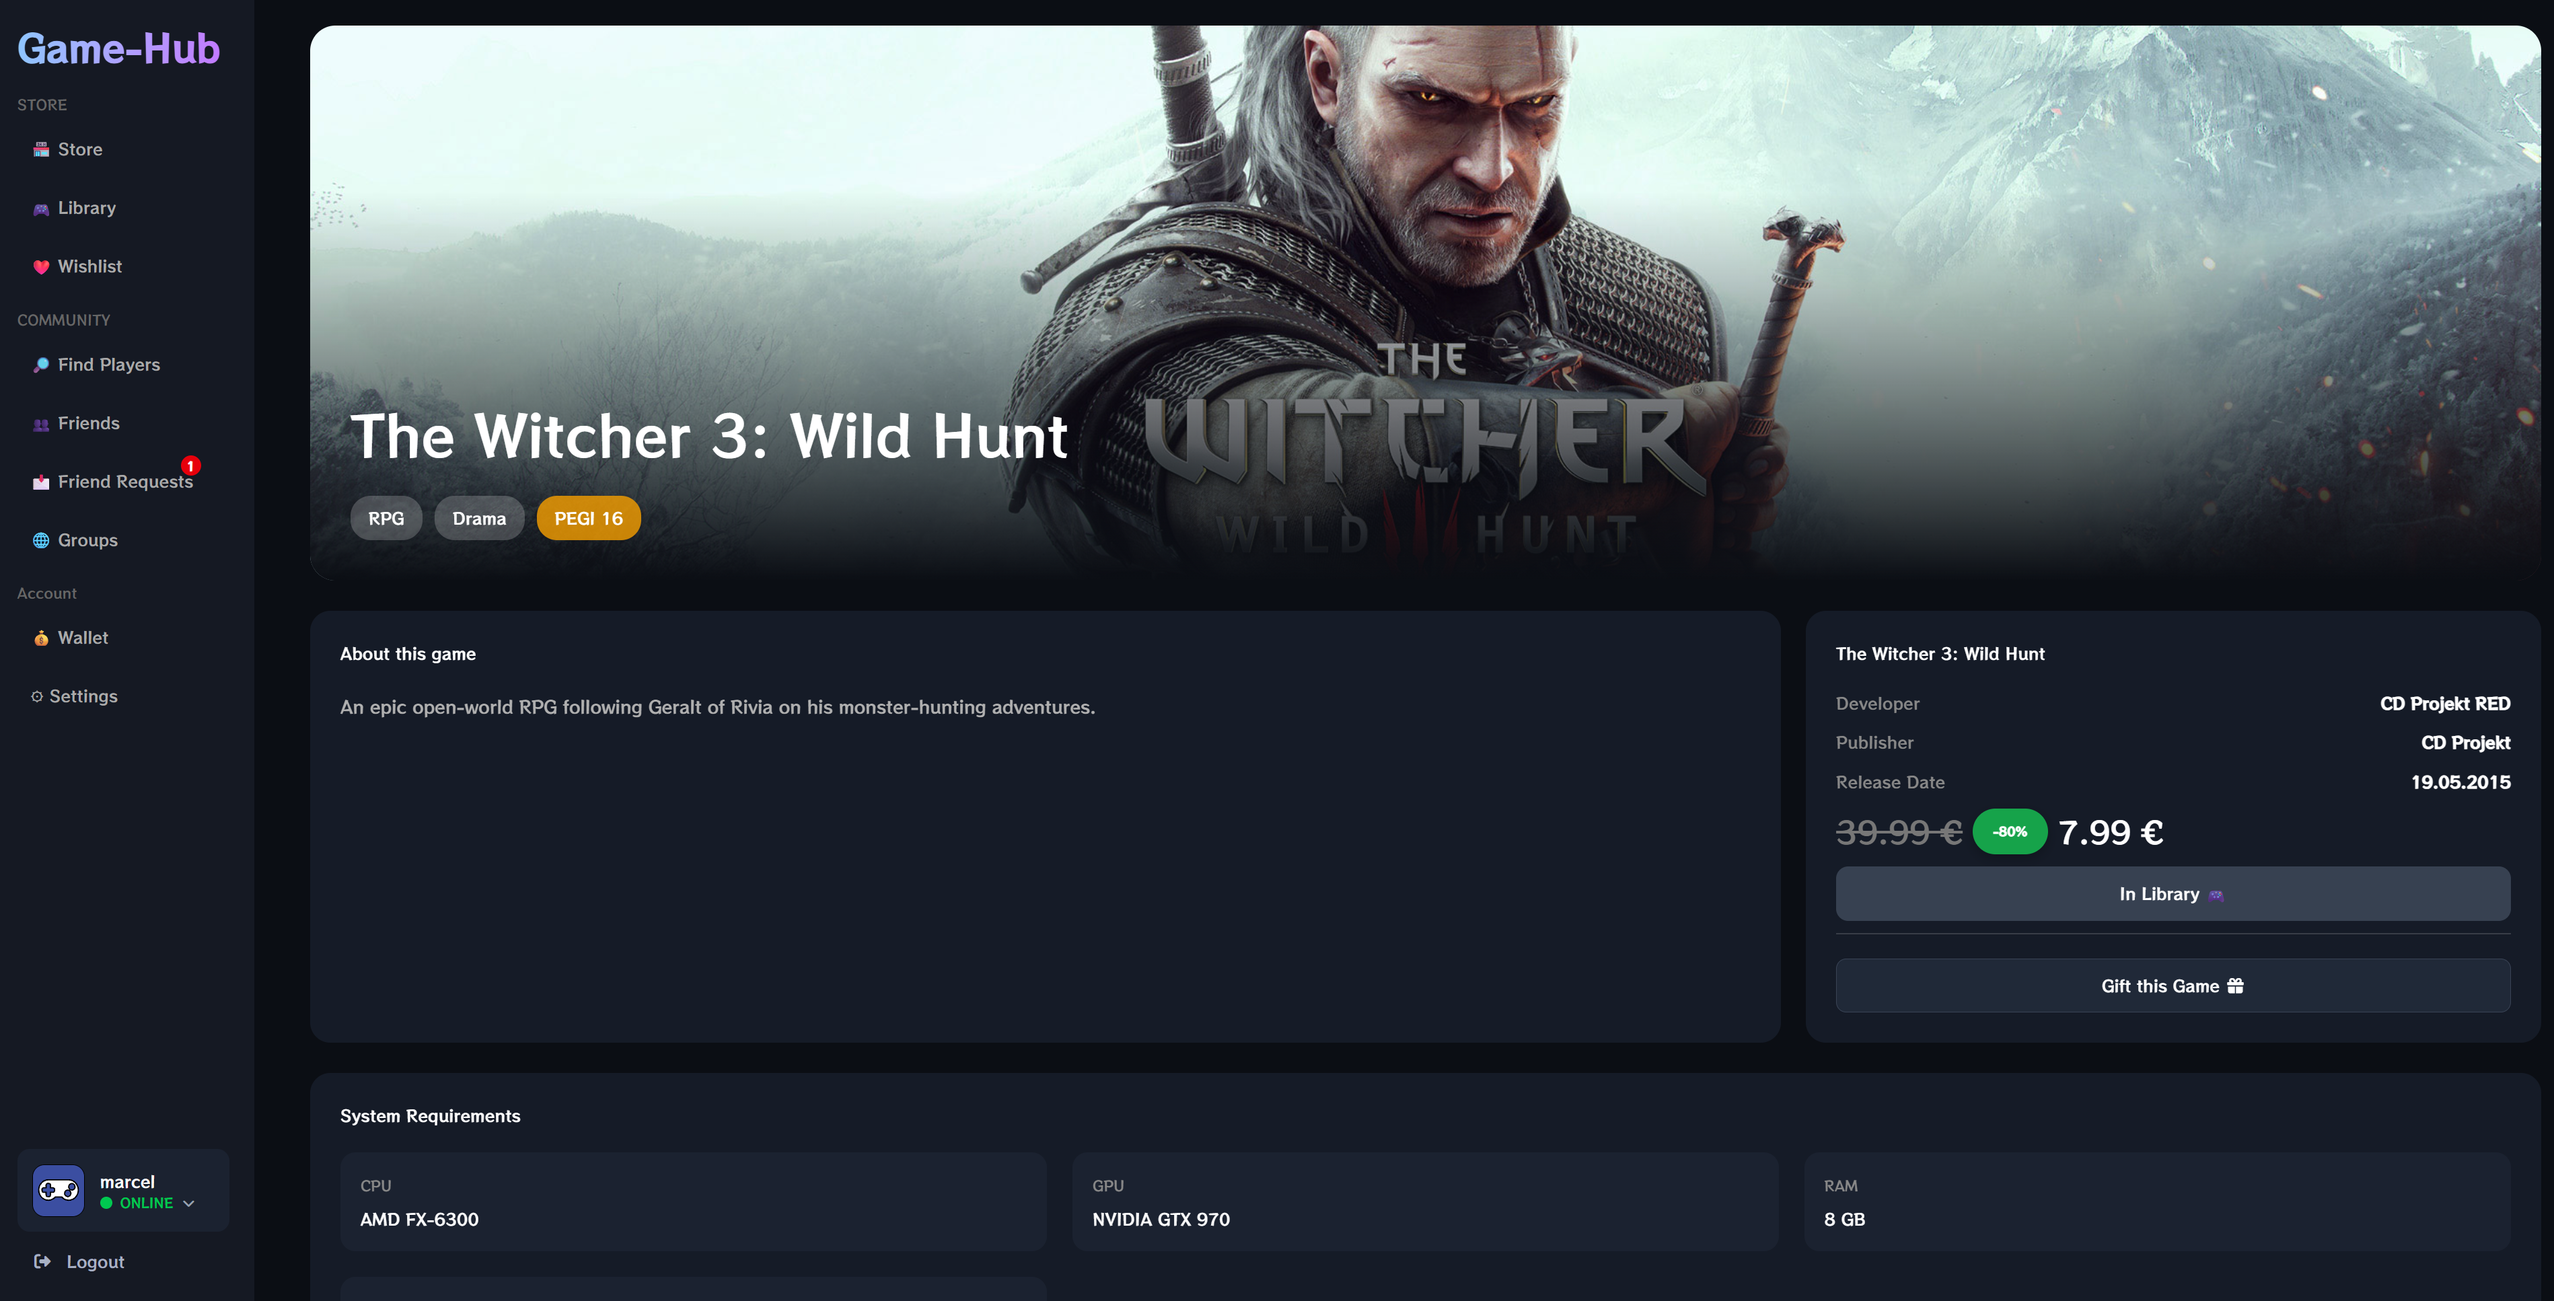
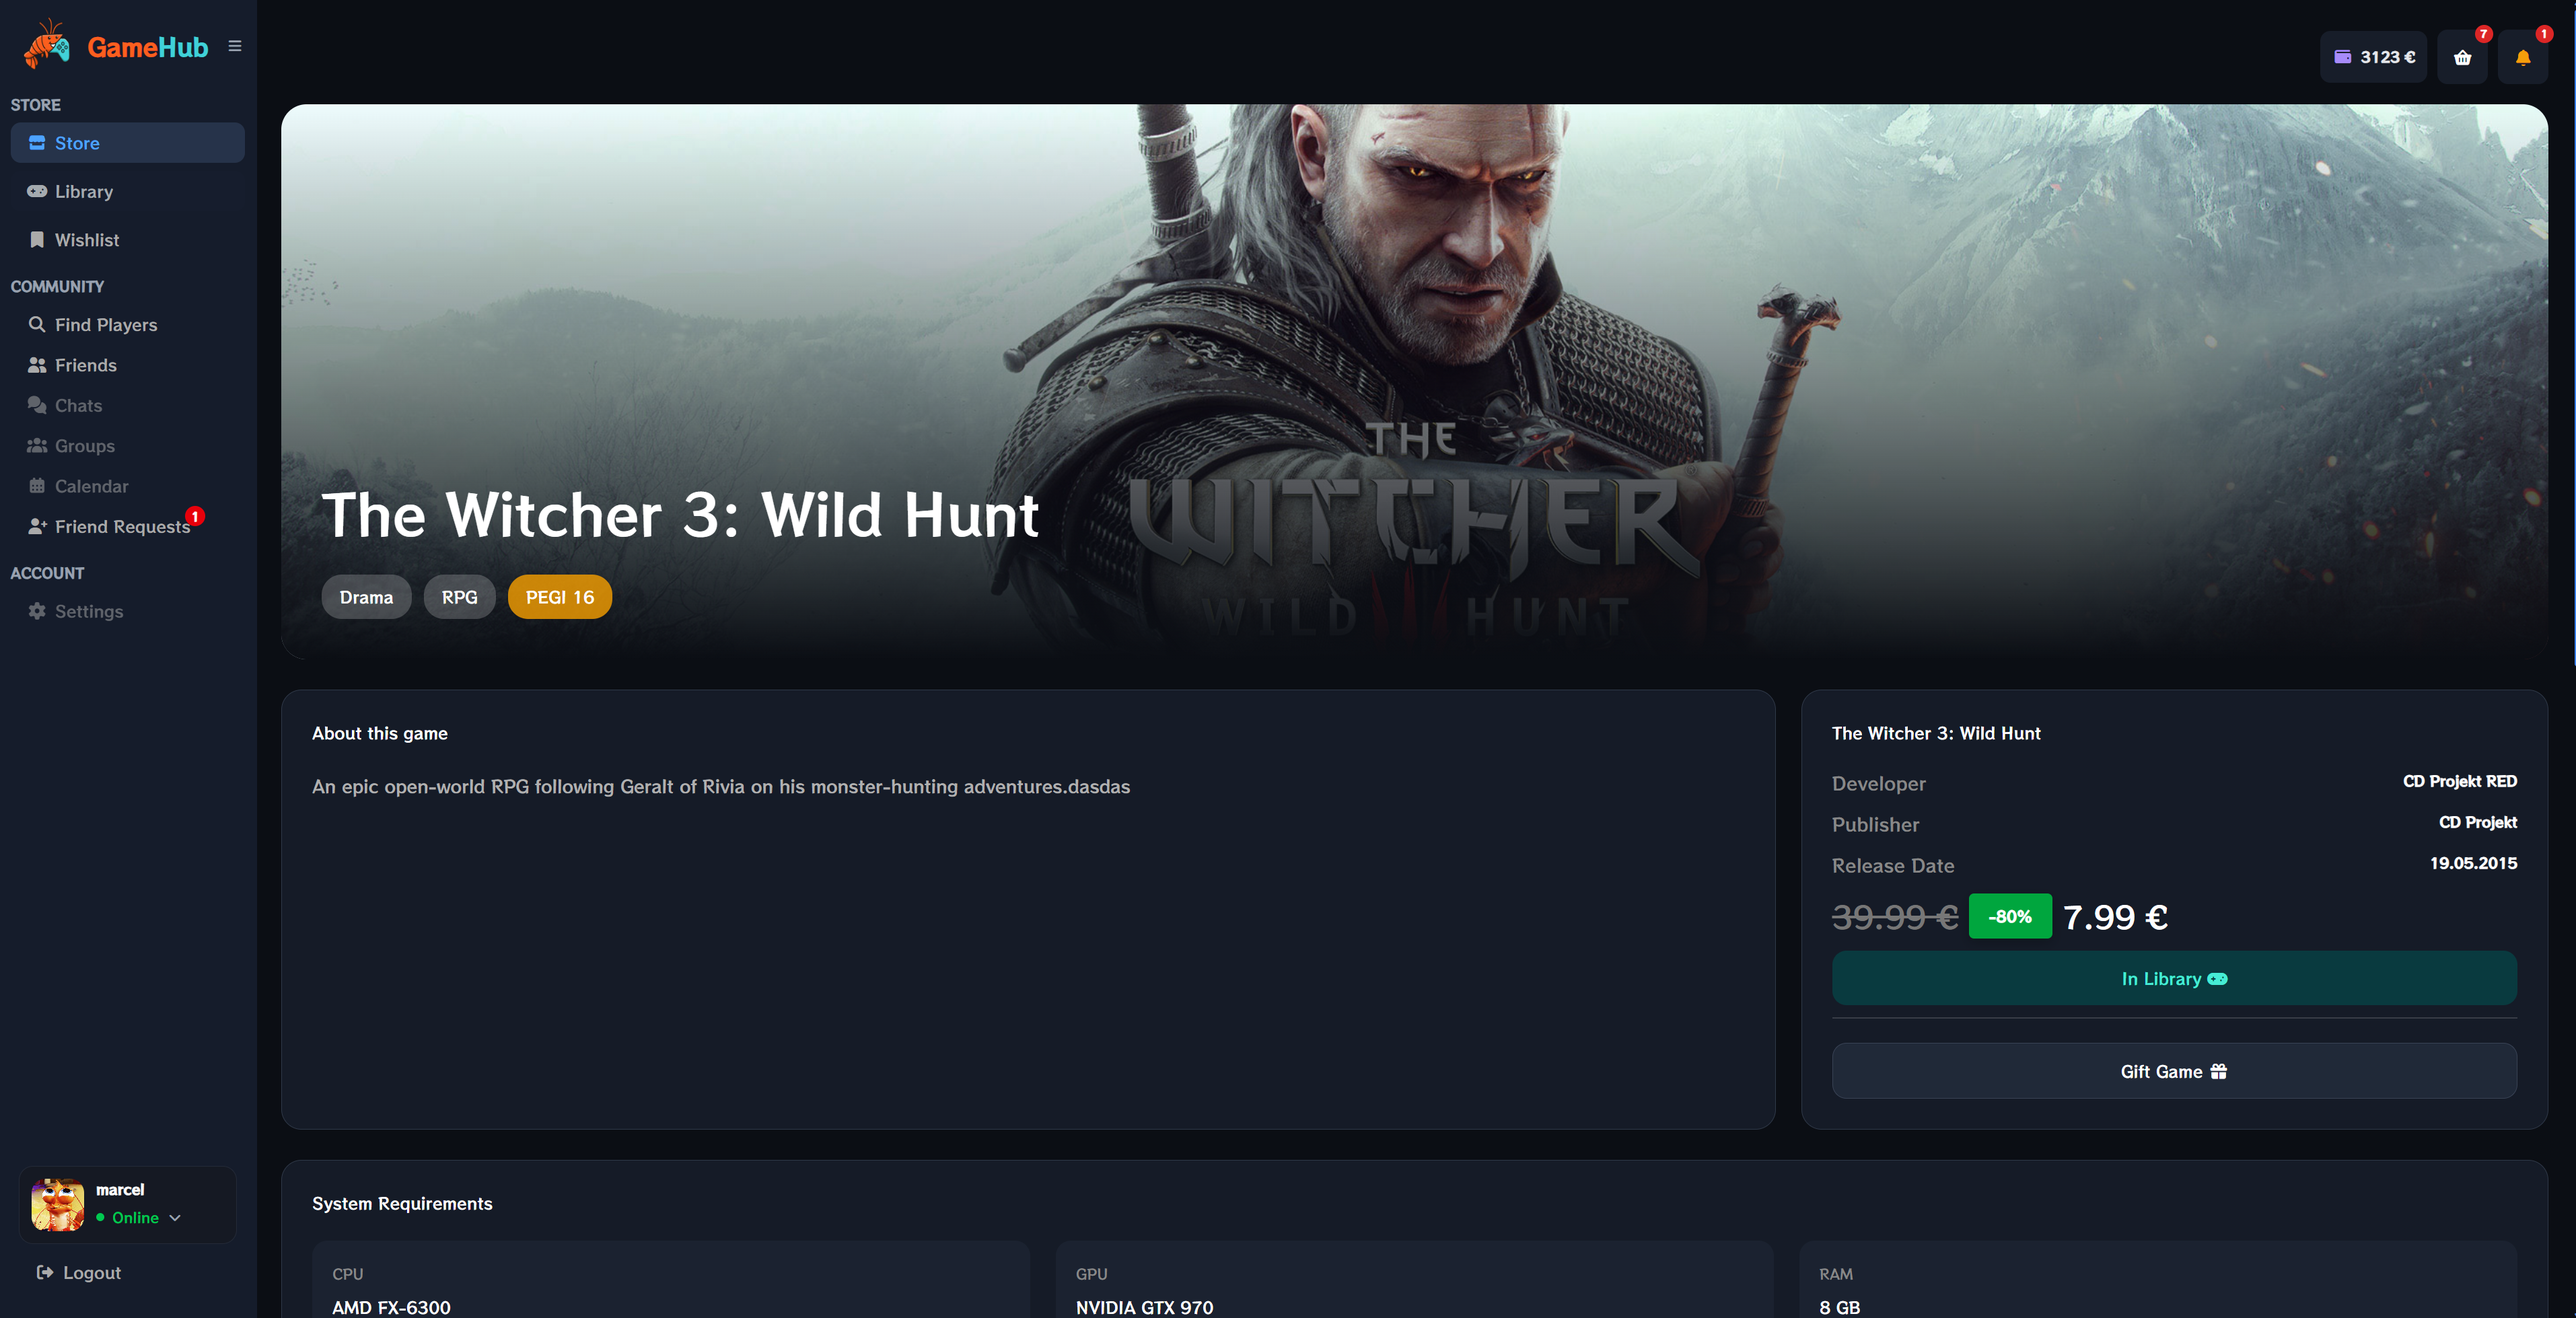
new images

diff --git a/README.md b/README.md
@@ -52,10 +52,10 @@ Users can browse games, add them to their library or wishlist, customize their p
 <img width="100%" alt="User game library" src="./assets/library.png" />
 </p>
 
-### 🎨 Profile Customization
+### 🛒 Cart
 
 <p align="center">
-<img width="100%" alt="User game library" src="./assets/Profile-customization.png" />
+<img width="100%" alt="User game library" src="./assets/cart.png" />
 </p>
 
 ---
